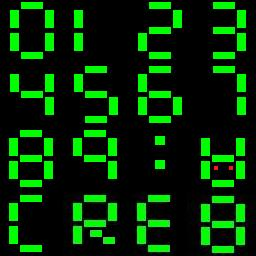
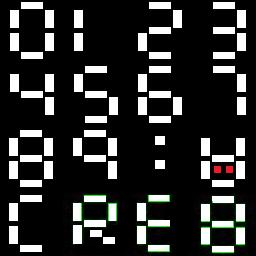
So, like, The digital.jpg images are all white now, so i could set a custom rendering color for guiComponents.  In layman's terms, that means that the jack bauer clock changes to red numbers when there's 30 seconds or less.  I also think red is a much more evil color for the digital bunny.

diff --git a/drk/game/KarnaughGame.java b/drk/game/KarnaughGame.java
@@ -40,9 +40,6 @@ public class KarnaughGame extends MazeGame implements Updatable{
 		int upperLeftY = (int)(.99*resHeight);
 		int upperLeftX = (int)(.01*resWidth);
 		
-		
-		
-		
 		cursor.setWidth(digitWidth);
 		cursor.setHeight(digitWidth);
 		cursor.setTexture("hand.jpg"); 
@@ -56,10 +53,8 @@ public class KarnaughGame extends MazeGame implements Updatable{
 		colon.texStartV = .5f;
 		colon.texSizeU =  .25f;
 		colon.texSizeV = .25f;
-		
 		colon.setPosition(0,0);
-	
-	
+		
 		cChar = new guiOverlayItem();
 		cChar.setWidth(digitWidth);
 		cChar.setHeight(digitWidth);
@@ -188,28 +183,13 @@ public class KarnaughGame extends MazeGame implements Updatable{
 		
 		//You should like, totally draw your gui elements here
 		 
-	    cursor.draw(gl);
+	    guiOverlayItem.setGUIColor(1f,1f,1f);
 	    
 	    
-	    for(int i = 0; i < bauerClock.length(); i++){
-	    	
-	    	char a = bauerClock.charAt(i);
-	    	int b = 0;
-	    	
-	    	if(a == ':')
-	    		colon.drawAt(0+i*colon.width,resHeight-colon.height,gl);
-	    	else if (secondsLeft() > 0 || minutesLeft() > 0){
-	    	
-	    	b = Integer.valueOf(""+a);
-	    	digits[b].drawAt(0+i*digits[b].width,resHeight-digits[b].height,gl);
-	    	}else{
-	    		bunny.drawAt(0+i*bunny.width,resHeight-bunny.height,gl);
-	    		
-	    	}
-	    	
-	    }
-	    
-	    
+	 	cursor.draw(gl);
+	 	
+	 	guiOverlayItem.setGUIColor(0,1f,0);
+	 	
 	    String scoreString = "5c0re:"+Score;
 	    
 	    for(int i = 0; i < scoreString.length(); i++){
@@ -237,8 +217,34 @@ public class KarnaughGame extends MazeGame implements Updatable{
 	    	}
 	    	
 	    }
+	 	
+	 	
+	    if(minutesLeft()==0 && secondsLeft() <=30){
+	    	guiOverlayItem.setGUIColor(1f,0,0);}
+	    
+	    for(int i = 0; i < bauerClock.length(); i++){
+	    	
+	    	char a = bauerClock.charAt(i);
+	    	int b = 0;
+	    	
+	    	if(a == ':')
+	    		colon.drawAt(0+i*colon.width,resHeight-colon.height,gl);
+	    	else if (secondsLeft() > 0 || minutesLeft() > 0){
+	    	
+	    	b = Integer.valueOf(""+a);
+	    	digits[b].drawAt(0+i*digits[b].width,resHeight-digits[b].height,gl);
+	    	}else{
+	    		bunny.drawAt(0+i*bunny.width,resHeight-bunny.height,gl);
+	    		
+	    	}
+	    	
+	    }
 	    
 	    
+	    guiOverlayItem.setGUIColor(1f,1f,1f);
+	    
+	    
+	  
 	    
 	    //you should like, totally STOP drawing them here
 	

diff --git a/drk/graphics/guiOverlayItem.java b/drk/graphics/guiOverlayItem.java
@@ -18,6 +18,17 @@ public float texStartV = 0;
 public float texSizeU = 1;
 public float texSizeV = 1;
 
+public static float r = 1.0f;
+public static float g = 1.0f;
+public static float b = 1.0f;
+
+
+public static void setGUIColor(float a, float x, float c){
+	r = a;
+	g = x;
+	b = c;
+}
+
 
 public guiOverlayItem(){	
 }
@@ -64,31 +75,7 @@ public void setSize(int w, int h){
 //assumes that drawing mode is already set to 2d
 public void draw(GL gl){
 	
-	t.enable();
-	
-	t.bind();
-	
-	gl.glBegin(GL.GL_QUADS);
-	
-	gl.glColor3f(1,1,1);
-		
-		
-		   gl.glTexCoord2f(texStartU,texStartV + texSizeV);
-		 	gl.glVertex2i(x, y);
-			
-			
-		     gl.glTexCoord2f(texStartU + texSizeU,texStartV + texSizeV);
-			gl.glVertex2i(x + width, y);
-			
-			
-		    gl.glTexCoord2f(texStartU + texSizeU,texStartV);
-			gl.glVertex2i(x+width,y+height);
-			
-			
-		    gl.glTexCoord2f(texStartU,texStartV);
-			gl.glVertex2i(x, y+ height);
-	
-	gl.glEnd();
+	drawAt(x,y,gl);
 	
 	
 }
@@ -102,23 +89,23 @@ public void drawAt(int X, int Y, GL gl){
 	
 	gl.glBegin(GL.GL_QUADS);
 	
-	gl.glColor3f(1,1,1);
+	gl.glColor3f(r,g,b);
 		
 		
 		    gl.glTexCoord2f(texStartU,texStartV + texSizeV);
-		 	gl.glVertex2i(X+x, Y+y);
+		 	gl.glVertex2i(X, Y);
 			
 			
 		    gl.glTexCoord2f(texStartU + texSizeU,texStartV + texSizeV);
-			gl.glVertex2i(X+x + width, Y+y);
+			gl.glVertex2i(X + width, Y);
 			
 			
 		    gl.glTexCoord2f(texStartU + texSizeU,texStartV);
-			gl.glVertex2i(X+x+width,Y+y+height);
+			gl.glVertex2i(X+width,Y+height);
 			
 			
 		    gl.glTexCoord2f(texStartU,texStartV);
-			gl.glVertex2i(X+x, Y+y+ height);
+			gl.glVertex2i(X, Y+ height);
 	
 	gl.glEnd();
 	
